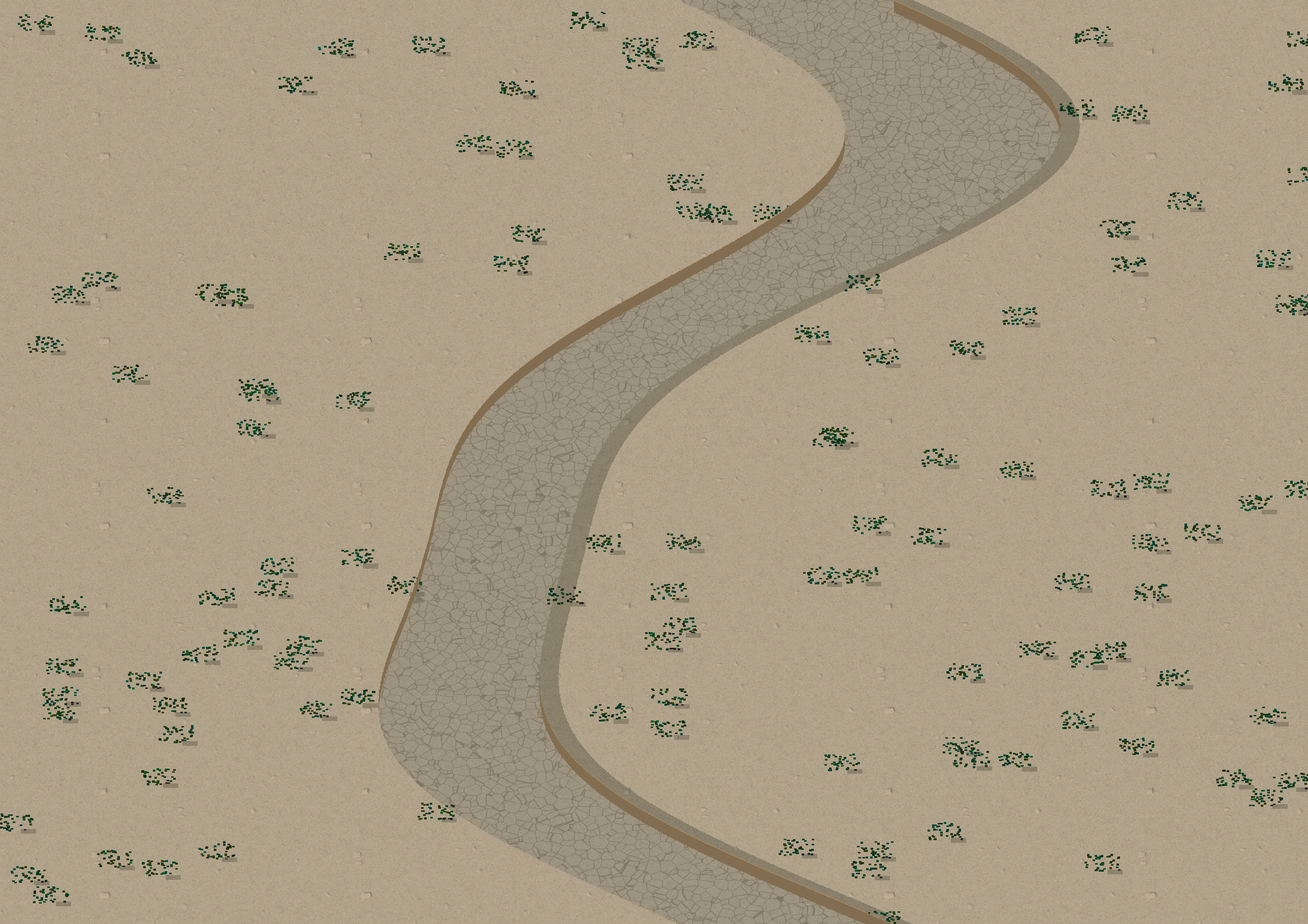
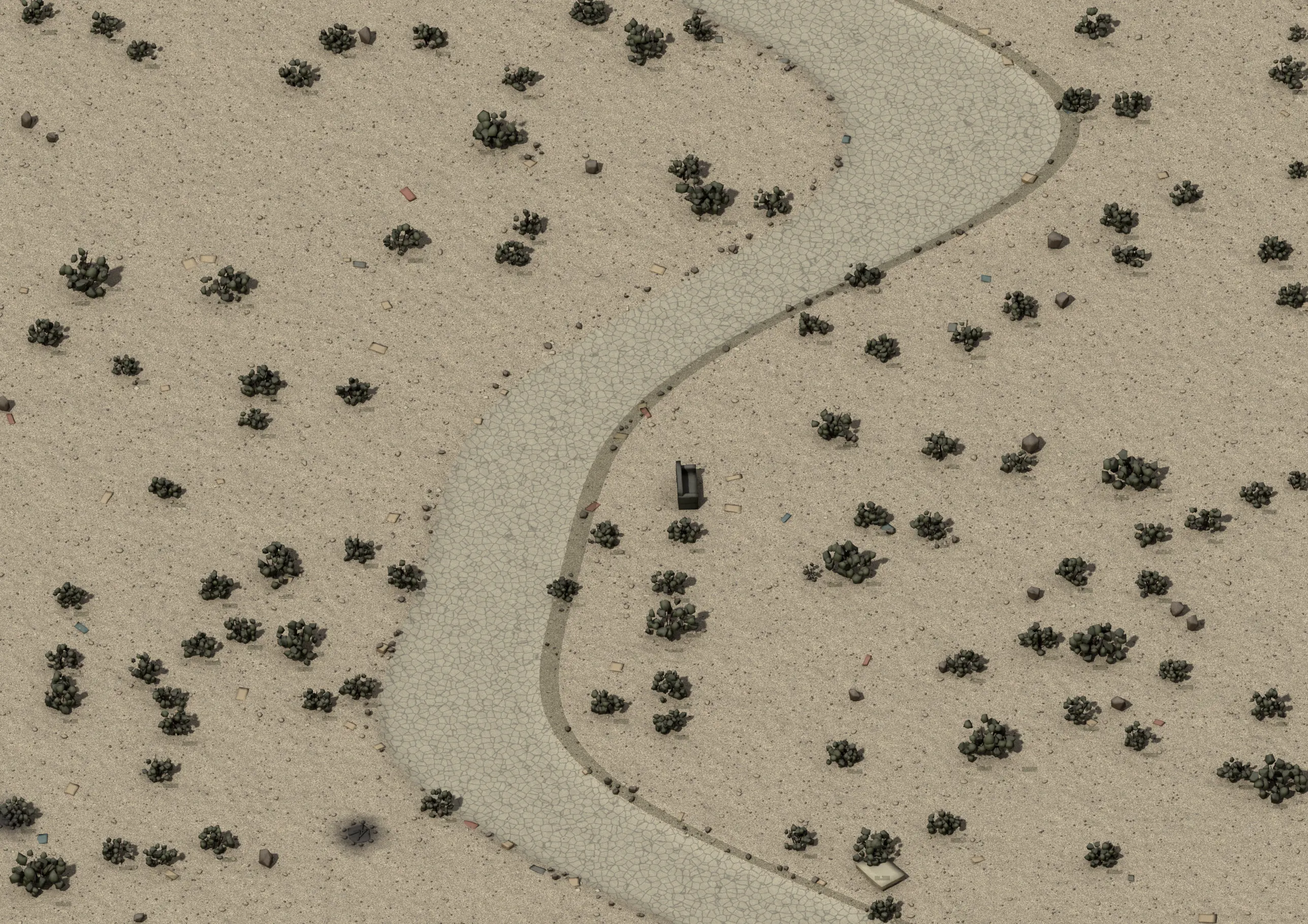
COOK [every 2D asset into 3D] + [the floor, not final]: wash.0 into the fight (the dry wash rebuilt whole, its bushes in 3D) and the settlement screen's fortress, day and night, built in 3D, no card (rule 123): the clinic a garage ranch and the barber the pawn shop in their hotspots, the stall, the 
Claude-Session: https://claude.ai/code/session_01HU7mq5KPMygEohHgjSiqmj

Changed region(s): [[0.0, 0.0, 1.0, 1.0]]

diff --git a/tools/bohemia_cook_the_settlements_through_the_rig_10_20_26.py b/tools/bohemia_cook_the_settlements_through_the_rig_10_20_26.py
@@ -293,8 +293,10 @@ def layout(tier, var, hot, pl, rnd):
         pl.built(stall, mid('stall'), f['stall'][2], wid('stall'), 0.0, 1.0, 7.0)
         pl.built(board, mid('board'), f['board'][2], wid('board'))
         pl.built(posts, mid('posts'), f['posts'][2], None, 0.0, 1.0, wid('posts'))
-        grab(pl.bpy, palisade, pl.bpy, pl.P, pl.rnd, X0 - 2, X0 + 50, 46.6)
-        pl.model('container.glb', X0 + 4, 41.6, None, 0.0, 1.0); pl.model('container.glb', X0 + 44, 41.4, None, 0.05, 1.0)
+        # 10/23: the palisade was at 46.6 m, 1.4 m from the picture's far edge, so only its foot showed (a dark strip);
+        # at 43.6 its whole height reads across the top the way the old picture's stakes did, the containers in front
+        grab(pl.bpy, palisade, pl.bpy, pl.P, pl.rnd, X0 - 2, X0 + 50, 43.6)
+        pl.model('container.glb', X0 + 4, 40.8, None, 0.0, 1.0); pl.model('container.glb', X0 + 44, 40.6, None, 0.05, 1.0)
         for (x, y) in ((X0 + 20, 29.0), (X0 + 36, 22.0), (X0 + 15, 16.5), (X0 + 44, 16.0), (X0 + 27, 17.0)):
             pl.drum_fire(x, y)
         pl.model('sandbags.glb', X0 + 20, 36.0, None, 0.0, 1.0); pl.model('sandbags.glb', X0 + 23, 36.2, None, 0.1, 1.0)
